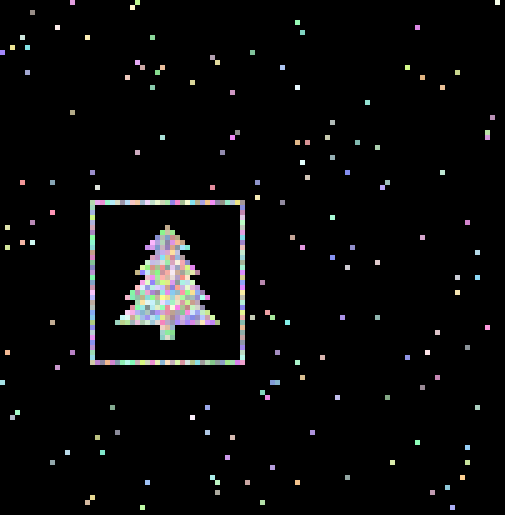
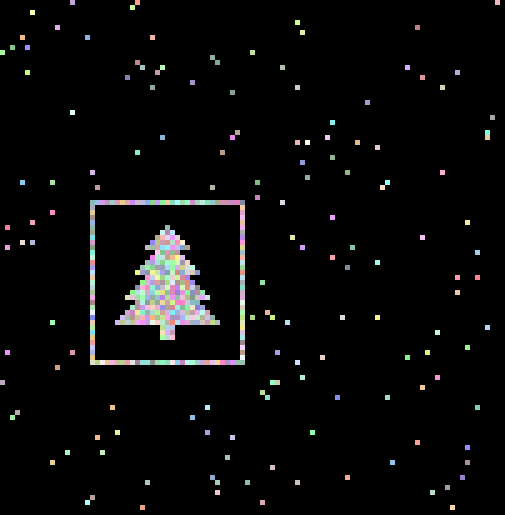
day 14 SPEEEED

diff --git a/day_14/src/main.rs b/day_14/src/main.rs
@@ -1,5 +1,4 @@
 use image::{ImageBuffer, Rgb};
-use std::collections::HashSet;
 use std::fs;
 use std::time::Instant;
 
@@ -9,22 +8,24 @@ struct Robot {
     velocity: (isize, isize),
 }
 
+const MAP_SIZE: (isize, isize) = (101, 103);
+
 impl Robot {
-    fn move_robot(&mut self, map_size: (isize, isize)) {
+    fn move_robot(&mut self) {
         self.position.0 += self.velocity.0;
         self.position.1 += self.velocity.1;
 
         // Warp around the map if the robot goes out of bounds
         if self.position.0 < 0 {
-            self.position.0 = map_size.0 + self.position.0;
-        } else if self.position.0 >= map_size.0 {
-            self.position.0 = self.position.0 - map_size.0;
+            self.position.0 = MAP_SIZE.0 + self.position.0;
+        } else if self.position.0 >= MAP_SIZE.0 {
+            self.position.0 = self.position.0 - MAP_SIZE.0;
         }
 
         if self.position.1 < 0 {
-            self.position.1 = map_size.1 + self.position.1;
-        } else if self.position.1 >= map_size.1 {
-            self.position.1 = self.position.1 - map_size.1;
+            self.position.1 = MAP_SIZE.1 + self.position.1;
+        } else if self.position.1 >= MAP_SIZE.1 {
+            self.position.1 = self.position.1 - MAP_SIZE.1;
         }
     }
 }
@@ -67,116 +68,152 @@ fn main() {
             velocity: (numbers[2], numbers[3]),
         });
     }
-    let map_size = (101, 103);
-    // let map_size = (11, 7);
+
+    let mut robots_distributions = (
+        [0usize; MAP_SIZE.0 as usize / 4 + 1],
+        [0usize; MAP_SIZE.1 as usize / 4 + 1],
+    );
 
     for i in 0..10_000 {
-        let mut robot_positions: HashSet<(isize, isize)> = HashSet::new();
+        for idx in 0..robots_distributions.0.len() {
+            robots_distributions.0[idx] = 0;
+        }
+        for idx in 0..robots_distributions.1.len() {
+            robots_distributions.1[idx] = 0;
+        }
+
+        // let mut robot_positions: HashSet<(isize, isize)> = HashSet::new();
         for robot in robots.iter_mut() {
-            robot.move_robot(map_size);
-            robot_positions.insert(robot.position);
+            robot.move_robot();
+            // robot_positions.insert(robot.position);
+            robots_distributions.0[(robot.position.0 as usize) / 4] += 1;
+            robots_distributions.1[(robot.position.1 as usize) / 4] += 1;
         }
 
-        let mut found_blok = false;
-        'outer: for y in 2..map_size.1 - 2 {
-            'inner: for x in 2..map_size.0 - 2 {
-                let cord_to_check = [
-                    (x, y),
-                    (x - 1, y),
-                    (x + 1, y),
-                    (x, y - 1),
-                    (x, y + 1),
-                    (x + 1, y + 1),
-                    (x + 1, y - 1),
-                    (x - 1, y + 1),
-                    (x - 1, y - 1),
-                ];
-
-                for cord in cord_to_check {
-                    if robot_positions.get(&cord).is_none() {
-                        continue 'inner;
-                    }
-                }
-
-                found_blok = true;
-                break 'outer;
-            }
-        }
-
-        if !found_blok {
-            continue;
-        }
-
-        let size_per_pixel = 5u32;
-        let mut image: ImageBuffer<Rgb<u8>, Vec<u8>> = ImageBuffer::new(
-            map_size.0 as u32 * size_per_pixel,
-            map_size.1 as u32 * size_per_pixel,
-        );
-        for y in 0..map_size.1 {
-            for x in 0..map_size.0 {
-                let mut found = false;
-                for robot in robots.iter() {
-                    if robot.position.0 == x && robot.position.1 == y {
-                        found = true;
-                        break;
-                    }
-                }
-
-                if !found {
+        if i == 99 {
+            let half_map = (MAP_SIZE.0 / 2, MAP_SIZE.1 / 2);
+            let mut robots_per_quadrant = [0, 0, 0, 0];
+            for robot in robots.iter() {
+                let mut quadrant = 0;
+                if robot.position.0 <= half_map.0 - 1 {
+                    // Continue
+                } else if robot.position.0 > half_map.0 {
+                    quadrant += 2;
+                } else {
                     continue;
                 }
 
-                // Give the pixel some pretty colors
-                let color = [
-                    rand::random::<u8>() / 2 + 128,
-                    rand::random::<u8>() / 2 + 128,
-                    rand::random::<u8>() / 2 + 128,
-                ];
+                if robot.position.1 <= half_map.1 - 1 {
+                    // Continue
+                } else if robot.position.1 > half_map.1 {
+                    quadrant += 1;
+                } else {
+                    continue;
+                }
 
-                let y_min = y as u32 * size_per_pixel;
-                let y_max = (y as u32 * size_per_pixel) + size_per_pixel;
-                let x_min = x as u32 * size_per_pixel;
-                let x_max = (x as u32 * size_per_pixel) + size_per_pixel;
-                for yb in y_min..y_max {
-                    for xb in x_min..x_max {
-                        image.get_pixel_mut(xb, yb).0 = color;
-                    }
+                robots_per_quadrant[quadrant] += 1;
+            }
+
+            let mut result = 1;
+            for nr in robots_per_quadrant {
+                result *= nr;
+            }
+
+            println!("{}", result);
+        }
+
+        if MAP_SIZE.0 < 100 {
+            continue;
+        }
+
+        let mut max_x = 0;
+        for idx in 0..robots_distributions.0.len() - 1 {
+            let total = robots_distributions.0[idx] + robots_distributions.0[idx + 1];
+            if total > max_x {
+                max_x = total;
+            }
+        }
+        let mut max_y = 0;
+        for idx in 0..robots_distributions.1.len() - 1 {
+            let total = robots_distributions.1[idx] + robots_distributions.1[idx + 1];
+            if total > max_y {
+                max_y = total;
+            }
+        }
+
+        // let mut found_blok = false;
+        // 'outer: for y in 3..MAP_SIZE.1 - 3 {
+        //     'inner: for x in 3..MAP_SIZE.0 - 3 {
+        //         let cord_to_check = [
+        //             (x, y),
+        //             (x - 1, y),
+        //             (x + 1, y),
+        //             (x, y - 1),
+        //             (x, y + 1),
+        //             (x + 1, y + 1),
+        //             (x + 1, y - 1),
+        //             (x - 1, y + 1),
+        //             (x - 1, y - 1),
+        //         ];
+
+        //         for cord in cord_to_check {
+        //             if robot_positions.get(&cord).is_none() {
+        //                 continue 'inner;
+        //             }
+        //         }
+
+        //         found_blok = true;
+        //         break 'outer;
+        //     }
+        // }
+
+        // if found_blok {
+        if max_x > 100 && max_y > 100 {
+            write_map_of_robots(format!("images/{}.png", i + 1), &robots);
+            break;
+        }
+    }
+
+    println!("Elapsed: {:.2?}", now.elapsed());
+}
+
+fn write_map_of_robots(filename: String, robots: &Vec<Robot>) {
+    let size_per_pixel = 5u32;
+    let mut image: ImageBuffer<Rgb<u8>, Vec<u8>> = ImageBuffer::new(
+        MAP_SIZE.0 as u32 * size_per_pixel,
+        MAP_SIZE.1 as u32 * size_per_pixel,
+    );
+    for y in 0..MAP_SIZE.1 {
+        for x in 0..MAP_SIZE.0 {
+            let mut found = false;
+            for robot in robots.iter() {
+                if robot.position.0 == x && robot.position.1 == y {
+                    found = true;
+                    break;
+                }
+            }
+
+            if !found {
+                continue;
+            }
+
+            // Give the pixel some pretty colors
+            let color = [
+                rand::random::<u8>() / 2 + 128,
+                rand::random::<u8>() / 2 + 128,
+                rand::random::<u8>() / 2 + 128,
+            ];
+
+            let y_min = y as u32 * size_per_pixel;
+            let y_max = (y as u32 * size_per_pixel) + size_per_pixel;
+            let x_min = x as u32 * size_per_pixel;
+            let x_max = (x as u32 * size_per_pixel) + size_per_pixel;
+            for yb in y_min..y_max {
+                for xb in x_min..x_max {
+                    image.get_pixel_mut(xb, yb).0 = color;
                 }
             }
         }
-        _ = image.save(format!("images/{}.png", i + 1));
     }
-
-    let half_map = (map_size.0 / 2, map_size.1 / 2);
-    let mut robots_per_quadrant = [0, 0, 0, 0];
-    for robot in robots.iter() {
-        let mut quadrant = 0;
-        if robot.position.0 <= half_map.0 - 1 {
-            // Continue
-        } else if robot.position.0 > half_map.0 {
-            quadrant += 2;
-        } else {
-            continue;
-        }
-
-        if robot.position.1 <= half_map.1 - 1 {
-            // Continue
-        } else if robot.position.1 > half_map.1 {
-            quadrant += 1;
-        } else {
-            continue;
-        }
-
-        robots_per_quadrant[quadrant] += 1;
-    }
-
-    println!("{:?}", robots_per_quadrant);
-
-    let mut result = 1;
-    for nr in robots_per_quadrant {
-        result *= nr;
-    }
-
-    println!("{}", result);
-    println!("Elapsed: {:.2?}", now.elapsed());
+    _ = image.save(filename);
 }
